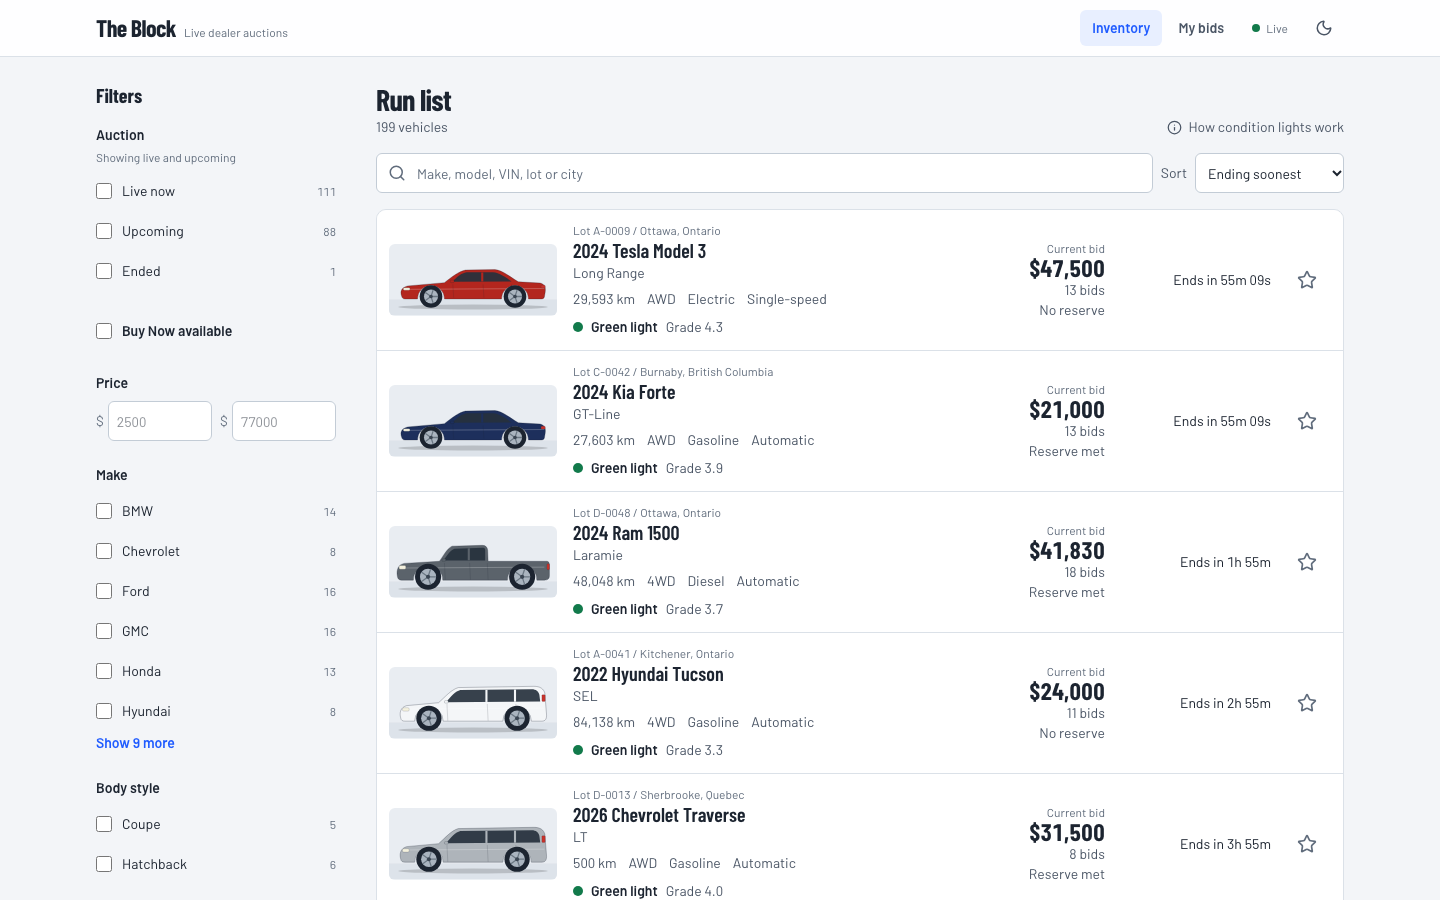
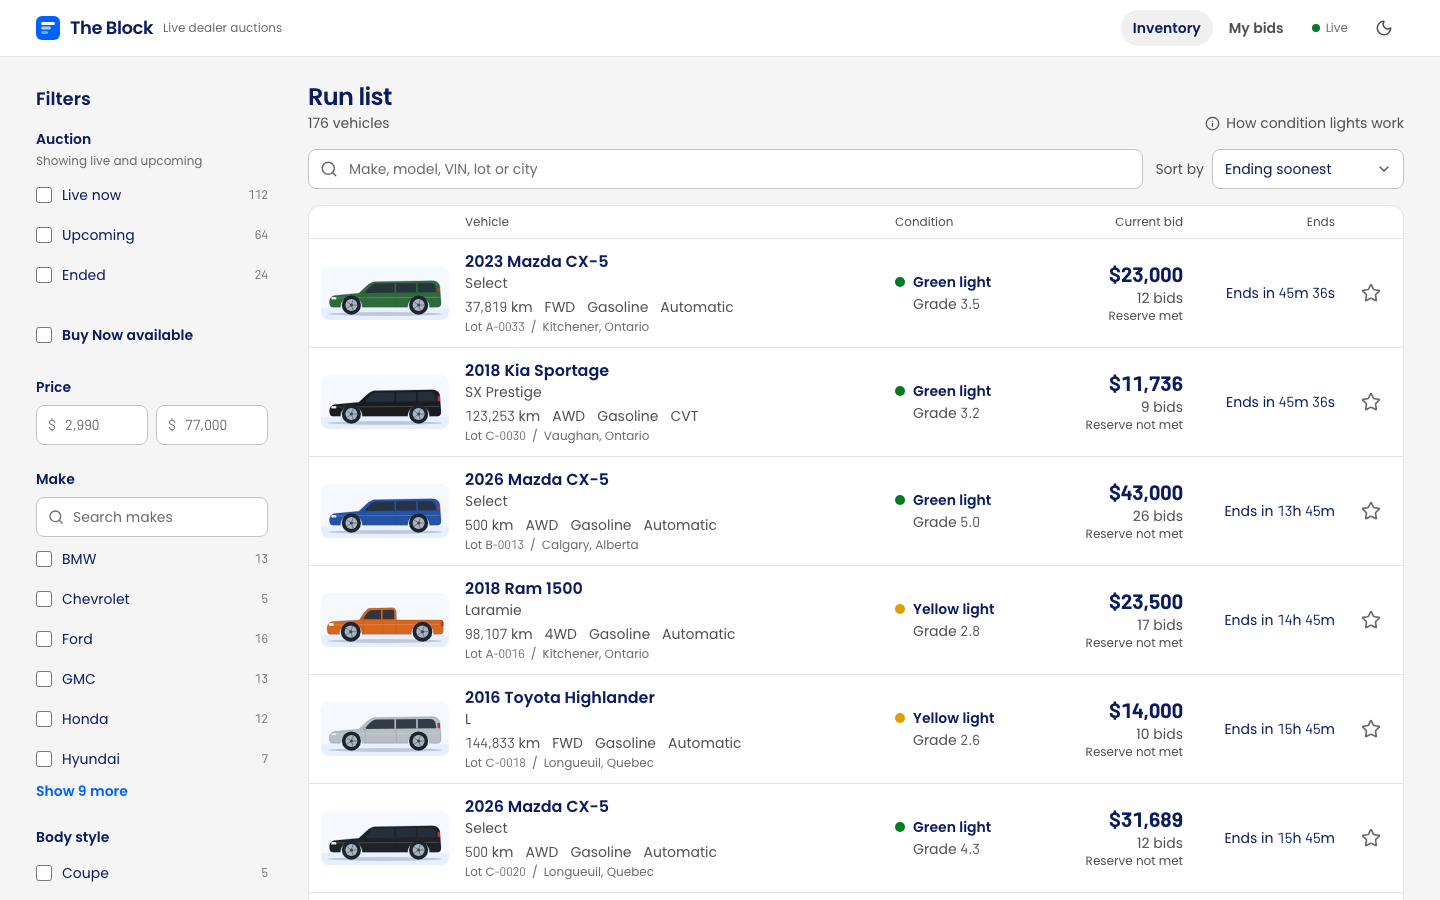
Design: My bids suggests the auctions closing first; refreshed docs (#16)
- The empty My bids page shows a one-line card with the way to the run
  list, then the five live auctions closing first.
- README screenshots regenerated in the new design; README and
  DECISIONS describe the refresh and its sources.

diff --git a/web/src/routes/mybids/MyBidsView.tsx b/web/src/routes/mybids/MyBidsView.tsx
@@ -1,5 +1,5 @@
 import { Link } from 'react-router'
-import { useMyBids, useWatchlist } from '../../api/queries'
+import { useInventory, useMyBids, useWatchlist } from '../../api/queries'
 import type { VehicleSummary } from '../../api/types'
 import { formatMoney } from '../../lib/format'
 import { useServerNow } from '../../lib/serverClock'
@@ -43,13 +43,7 @@ export function MyBidsView() {
       </p>
 
       {empty ? (
-        <div className="border-line bg-surface mt-8 rounded-[var(--radius-panel)] border px-6 py-12 text-center">
-          <h2 className="text-lg font-semibold">No bids or watched vehicles yet</h2>
-          <p className="text-ink-muted mt-1">Bid on a vehicle or tap its star to follow it here.</p>
-          <Link to="/" className="btn btn-primary mt-4">
-            Browse the run list
-          </Link>
-        </div>
+        <NothingYet />
       ) : (
         <div className="mt-6 space-y-10">
           <Group
@@ -111,5 +105,45 @@ function Group({
         ))}
       </div>
     </section>
+  )
+}
+
+/**
+ * A first visit: one line saying what this page will hold, then the auctions closing first, so
+ * the screen offers the next thing to do instead of a box in an empty page.
+ */
+function NothingYet() {
+  const ending = useInventory({ status: ['live'], sort: 'ending_soon', page_size: 5 })
+  const vehicles = ending.data?.items ?? []
+  return (
+    <>
+      <div className="border-line bg-surface mt-6 flex flex-wrap items-center justify-between gap-4 rounded-[var(--radius-panel)] border px-5 py-4">
+        <div>
+          <h2 className="text-lg font-semibold">No bids or watched vehicles yet</h2>
+          <p className="text-ink-muted text-sm">
+            Bid on a vehicle or tap its star to follow it here.
+          </p>
+        </div>
+        <Link to="/" className="btn btn-primary">
+          Browse the run list
+        </Link>
+      </div>
+      {vehicles.length > 0 && (
+        <section aria-labelledby="ending-soonest" className="mt-10">
+          <h2 id="ending-soonest" className="text-lg font-semibold">
+            Ending soonest
+          </h2>
+          <p className="text-ink-muted mb-3 text-sm">
+            Live now and closing first. Star one to follow it here.
+          </p>
+          <div className="border-line overflow-clip rounded-[var(--radius-panel)] border">
+            <VehicleRowHeader />
+            {vehicles.map((vehicle) => (
+              <VehicleRow key={vehicle.id} vehicle={vehicle} />
+            ))}
+          </div>
+        </section>
+      )}
+    </>
   )
 }

diff --git a/web/src/routes/MyBidsPage.test.tsx b/web/src/routes/MyBidsPage.test.tsx
@@ -1,7 +1,7 @@
 import { screen, within } from '@testing-library/react'
 import { afterEach, describe, expect, it, vi } from 'vitest'
 import type { MyBid, VehicleSummary } from '../api/types'
-import { auction, stubApi, vehicle } from '../test/fixtures'
+import { auction, stubApi, vehicle, vehicleList } from '../test/fixtures'
 import { renderRoute } from '../test/render'
 
 afterEach(() => vi.unstubAllGlobals())
@@ -43,6 +43,25 @@ describe('MyBidsPage', () => {
       await screen.findByRole('heading', { name: 'No bids or watched vehicles yet' }),
     ).toBeInTheDocument()
     expect(screen.getByRole('link', { name: 'Browse the run list' })).toHaveAttribute('href', '/')
+  })
+
+  it('suggests the auctions closing first when there is nothing to show', async () => {
+    const api = stubApi((url) =>
+      url.pathname === '/api/vehicles'
+        ? vehicleList([vehicle({ id: 'soon', model: 'Ranger' })])
+        : url.pathname.startsWith('/api/me/')
+          ? []
+          : undefined,
+    )
+    vi.stubGlobal('fetch', api.fetch)
+    renderRoute('/my-bids')
+    const section = (await screen.findByRole('heading', { name: 'Ending soonest' })).closest(
+      'section',
+    )!
+    expect(within(section).getByRole('article', { name: '2023 Ford Ranger' })).toBeInTheDocument()
+    const query = api.calls.find((url) => url.pathname === '/api/vehicles')!.searchParams
+    expect(query.get('sort')).toBe('ending_soon')
+    expect(query.getAll('status')).toEqual(['live'])
   })
 
   it('loads watched cars from the watchlist endpoint, not the inventory search', async () => {

diff --git a/README.md b/README.md
@@ -38,9 +38,10 @@ The API's interactive docs are at **http://localhost:8000/docs**.
 
 - **Run list.** Dense rows, not a card grid, the way auction run lists are read. Each row shows
   the vehicle, key specs, a **condition light**, price, a live countdown, and your standing.
-  Search (make, model, trim, VIN, lot, city, dealer), multi-select filters with live counts,
-  sorting, and pagination all live in the URL. Filters sit in a rail on desktop and a bottom
-  sheet on phones.
+  From 1280px it's a table with aligned columns, and wider monitors add columns (odometer,
+  reserve, location) instead of empty space. Search (make, model, trim, VIN, lot, city, dealer),
+  multi-select filters with live counts (searchable for makes and provinces), sorting, and
+  pagination all live in the URL. Filters sit in a rail on desktop and a bottom sheet on phones.
 - **Vehicle detail.** Illustrated views in the car's real paint colour, a condition report that
   leads with what matters (branded-title warning, a 1–5 grade meter, damage grouped **major →
   mechanical → cosmetic**), specs with VIN copy, and the selling dealer.
@@ -110,7 +111,7 @@ that shaped the product:
 - **API: 126 pytest tests.** Auction rules, schedule normalization, seeding invariants, search
   and facets, every bid rejection, idempotency, soft close, Buy Now, the concurrency race, SSE
   personalization and backpressure, and simulator behaviour. Warnings are errors.
-- **Web: 133 Vitest tests.** Formatting and rules, the API client, the clock sync, URL filter
+- **Web: 136 Vitest tests.** Formatting and rules, the API client, the clock sync, URL filter
   state, the run list, the bid flow (two-step confirm, outbid recovery, amount pinning), live
   events through a fake `EventSource`, toasts, and My bids.
 - **End to end: 4 Playwright tests** on desktop and a phone viewport. They find a car, bid,
@@ -142,7 +143,11 @@ Design references: the
 [ui-ux-pro-max](https://github.com/nextlevelbuilder/ui-ux-pro-max-skill) skill (its auction
 colour semantics and accessibility rules were used; its serif body font and dark-first theme were
 rejected for a data-dense tool) and [Motion](https://github.com/motiondivision/motion) for
-animation.
+animation. A later design refresh used the
+[taste-skill](https://github.com/Leonxlnx/taste-skill)'s rules for app screens and its
+real-browser inspector, and took colours and type from OPENLANE itself: its published palette
+and Poppins, with tabular figures from Barlow for prices and countdowns. The decisions are in
+[DECISIONS.md](DECISIONS.md#design-refresh).
 
 ## Time spent
 

diff --git a/DECISIONS.md b/DECISIONS.md
@@ -230,3 +230,5 @@ A review with the [taste-skill](https://github.com/Leonxlnx/taste-skill) (v2.1.5
 | **`overflow-clip` on the list's frame**                                                                                                                              | It rounds the corners without making a scroll box, so the column header can stick under the page header.                                                                                                                                   |
 | **Search boxes on the Make and Province filters**; ticked values stay in view while searching                                                                        | A 15-make list behind "Show 9 more" made a dealer scroll for the make they came for.                                                                                                                                                       |
 | **The pager states the range** ("26–50 of 178")                                                                                                                      | The skill's list-screen rule: say where you are in the list, not only the page number.                                                                                                                                                     |
+| **My bids' empty state lists the auctions closing first**, under a one-line card with the way to the run list                                                        | The inspector measured 53% of the first screen as one empty block; a first visit now shows what to do next.                                                                                                                                |
+| **README screenshots regenerated** in the new design (desktop light, phone dark)                                                                                     | The old ones showed the previous palette and type.                                                                                                                                                                                         |
